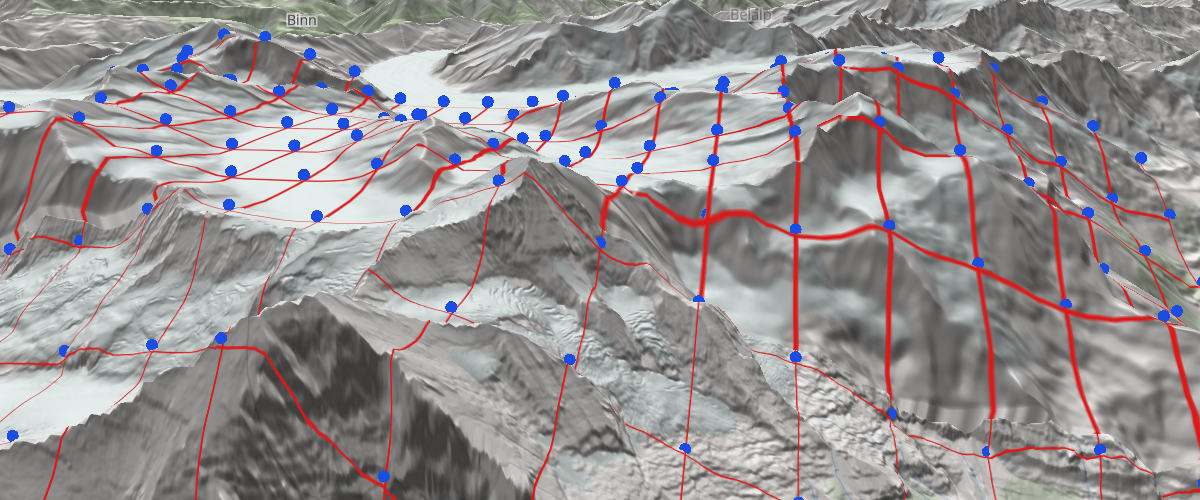
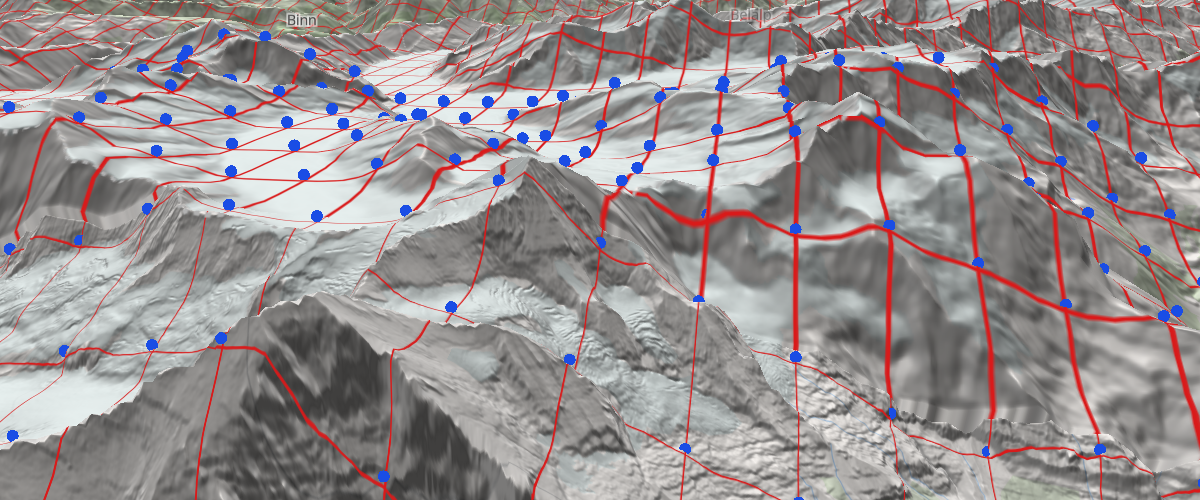
Shorten the terrain example, render fixture and height map TSDoc

diff --git a/test/examples/add-custom-layers-that-follow-the-terrain.html b/test/examples/add-custom-layers-that-follow-the-terrain.html
@@ -28,7 +28,7 @@
         maxPitch: 85
     });
 
-    // The area of the grid and the points, [west, north, east, south] in Mercator coordinates
+    // The area of the points, [west, north, east, south] in Mercator coordinates
     const northWest = maplibregl.MercatorCoordinate.fromLngLat([7.9, 46.65]);
     const southEast = maplibregl.MercatorCoordinate.fromLngLat([8.1, 46.5]);
     const bounds = [northWest.x, northWest.y, southEast.x, southEast.y];
@@ -59,11 +59,9 @@
                     v_mercator = mix(u_tile.xw, u_tile.zy, corner);
                     gl_Position = vec4(corner * 2.0 - 1.0, 0.0, 1.0);
                 }`, `
-                uniform vec4 u_bounds;
                 in vec2 v_mercator;
                 out vec4 fragColor;
                 void main() {
-                    if (any(lessThan(v_mercator, u_bounds.xy)) || any(greaterThan(v_mercator, u_bounds.zw))) discard;
                     vec2 lngLat = vec2(v_mercator.x * 360.0 - 180.0, degrees(atan(sinh(3.14159265 * (1.0 - 2.0 * v_mercator.y)))));
                     vec2 pixels = abs(fract(lngLat / 0.01 - 0.5) - 0.5) / fwidth(lngLat / 0.01);
                     float line = 1.0 - clamp(min(pixels.x, pixels.y) - 1.0, 0.0, 1.0);
@@ -78,7 +76,6 @@
             const x = tileID.canonical.x + tileID.wrap * tiles;
             gl.useProgram(this.program);
             gl.uniform4f(gl.getUniformLocation(this.program, 'u_tile'), x / tiles, tileID.canonical.y / tiles, (x + 1) / tiles, (tileID.canonical.y + 1) / tiles);
-            gl.uniform4fv(gl.getUniformLocation(this.program, 'u_bounds'), bounds);
             gl.drawArrays(gl.TRIANGLE_STRIP, 0, 4);
         }
     };
@@ -120,7 +117,6 @@
             this.buffer = gl.createBuffer();
             gl.bindBuffer(gl.ARRAY_BUFFER, this.buffer);
             gl.bufferData(gl.ARRAY_BUFFER, new Float32Array(positions), gl.STATIC_DRAW);
-
             // The height map holds the elevation in meters in red, and needs a float texture
             gl.getExtension('EXT_color_buffer_float');
             this.heightMap = gl.createTexture();

diff --git a/src/style/style_layer/custom_style_layer.ts b/src/style/style_layer/custom_style_layer.ts
@@ -166,14 +166,6 @@ export type CustomRenderMethodInput = {
      * Draws the elevation of the terrain as the map draws it into a texture, so that the layer can place many
      * objects on the ground on the GPU. Only set while terrain is enabled. Call it again after the camera moves,
      * terrain tiles load or the terrain changes, and set up your WebGL state afterwards.
-     * @example
-     * ```ts
-     * prerender(gl, options) {
-     *     const northWest = MercatorCoordinate.fromLngLat([7.87, 46.65]);
-     *     const southEast = MercatorCoordinate.fromLngLat([8.11, 46.5]);
-     *     options.renderTerrainHeightMap?.({texture, width: 512, height: 512, bounds: [northWest.x, northWest.y, southEast.x, southEast.y]});
-     * }
-     * ```
      */
     renderTerrainHeightMap?: (target: TerrainHeightMapTarget) => void;
 };
